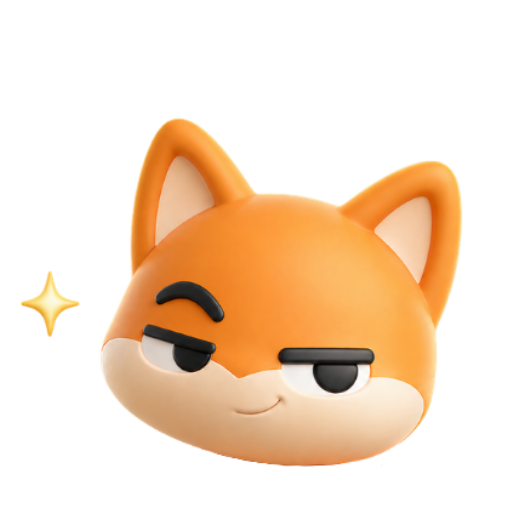
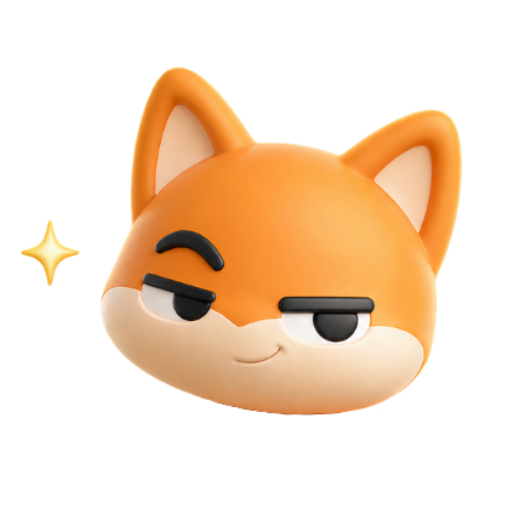
Mascot: new asset, CSS drift animation (XR-safe, no Framer)

diff --git a/src/index.css b/src/index.css
@@ -64,3 +64,29 @@ body {
   /* Passthrough can wash out fully transparent UIs */
   background: rgba(0, 0, 0, 0.28);
 }
+
+/* Onboarding mascot — CSS-only loop (no Framer); OK in DOM / XR overlay */
+@keyframes spark-mascot-drift {
+  0%,
+  100% {
+    transform: translate3d(0, 0, 0) rotate(-1.25deg) scale(1);
+  }
+  33% {
+    transform: translate3d(0, -6px, 0) rotate(1.75deg) scale(1.025);
+  }
+  66% {
+    transform: translate3d(0, -3px, 0) rotate(0.25deg) scale(1.008);
+  }
+}
+
+.spark-mascot-motion {
+  animation: spark-mascot-drift 3.8s ease-in-out infinite;
+  will-change: transform;
+}
+
+@media (prefers-reduced-motion: reduce) {
+  .spark-mascot-motion {
+    animation: none;
+    will-change: auto;
+  }
+}

diff --git a/src/components/Onboarding.tsx b/src/components/Onboarding.tsx
@@ -386,7 +386,7 @@ export function Onboarding({ onComplete }: Props) {
                           <img
                             src="/spark-mascot.png"
                             alt=""
-                            className="shrink-0 h-[clamp(5.5rem,26vw,9.5rem)] w-auto max-w-[min(42vw,168px)] object-contain object-left select-none pointer-events-none"
+                            className="spark-mascot-motion shrink-0 h-[clamp(5.5rem,26vw,9.5rem)] w-auto max-w-[min(42vw,168px)] object-contain object-left select-none pointer-events-none"
                             draggable={false}
                           />
                           <div className="min-w-0 max-w-[min(52vw,260px)] space-y-1.5">
